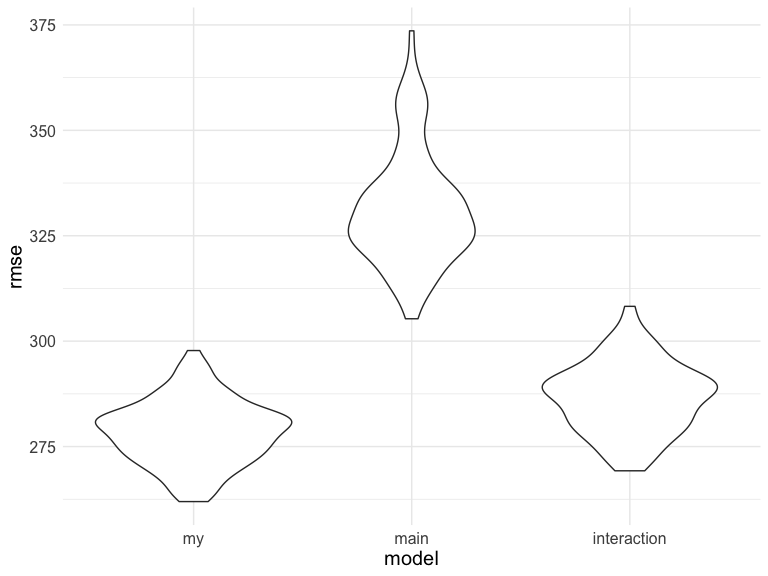
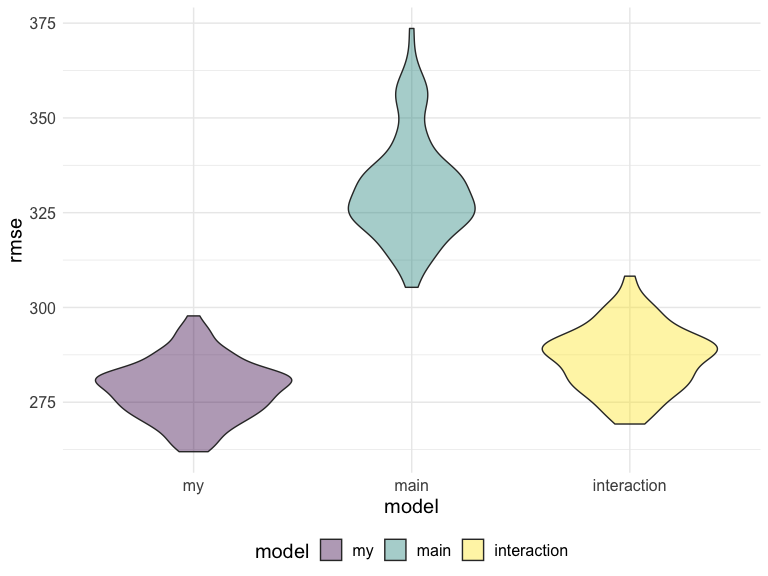
changes on kable

diff --git a/p8105_hw6_wx2233.md b/p8105_hw6_wx2233.md
@@ -190,15 +190,15 @@ summary(fit3)
 
 ``` r
 fit3 %>% 
-  broom::tidy()
+  broom::tidy() %>% 
+  knitr::kable()
 ```
 
-    ## # A tibble: 3 x 5
-    ##   term        estimate std.error statistic  p.value
-    ##   <chr>          <dbl>     <dbl>     <dbl>    <dbl>
-    ## 1 (Intercept)  -4348.      98.0      -44.4 0.      
-    ## 2 blength        129.       1.99      64.6 0.      
-    ## 3 gaweeks         27.0      1.72      15.7 2.36e-54
+| term        |     estimate | std.error |  statistic | p.value |
+| :---------- | -----------: | --------: | ---------: | ------: |
+| (Intercept) | \-4347.66707 | 97.958360 | \-44.38281 |       0 |
+| blength     |    128.55569 |  1.989891 |   64.60439 |       0 |
+| gaweeks     |     27.04673 |  1.717930 |   15.74379 |       0 |
 
 One using head circumference, length, sex, and all interactions
 (including the three-way interaction) between these Make this comparison
@@ -237,20 +237,20 @@ summary(fit4)
 
 ``` r
 fit4 %>% 
-  broom::tidy()
+  broom::tidy() %>% 
+  knitr::kable()
 ```
 
-    ## # A tibble: 8 x 5
-    ##   term                      estimate std.error statistic    p.value
-    ##   <chr>                        <dbl>     <dbl>     <dbl>      <dbl>
-    ## 1 (Intercept)                -802.    1102.       -0.728 0.467     
-    ## 2 babysexmale               -6375.    1678.       -3.80  0.000147  
-    ## 3 bhead                       -16.6     34.1      -0.487 0.626     
-    ## 4 blength                     -21.6     23.4      -0.926 0.354     
-    ## 5 babysexmale:bhead           198.      51.1       3.88  0.000105  
-    ## 6 babysexmale:blength         124.      35.1       3.52  0.000429  
-    ## 7 bhead:blength                 3.32     0.713     4.67  0.00000317
-    ## 8 babysexmale:bhead:blength    -3.88     1.06     -3.67  0.000245
+| term                      |      estimate |    std.error |   statistic |   p.value |
+| :------------------------ | ------------: | -----------: | ----------: | --------: |
+| (Intercept)               |  \-801.948671 | 1102.3077046 | \-0.7275180 | 0.4669480 |
+| babysexmale               | \-6374.868351 | 1677.7669213 | \-3.7996150 | 0.0001469 |
+| bhead                     |   \-16.597546 |   34.0916082 | \-0.4868514 | 0.6263883 |
+| blength                   |   \-21.645964 |   23.3720477 | \-0.9261475 | 0.3544209 |
+| babysexmale:bhead         |    198.393181 |   51.0916850 |   3.8830816 | 0.0001047 |
+| babysexmale:blength       |    123.772887 |   35.1185360 |   3.5244319 | 0.0004288 |
+| bhead:blength             |      3.324444 |    0.7125586 |   4.6655020 | 0.0000032 |
+| babysexmale:bhead:blength |    \-3.878053 |    1.0566296 | \-3.6702106 | 0.0002453 |
 
 ### Cross - Validation
 
@@ -279,7 +279,8 @@ pivot_longer(
     values_to = "rmse",
     names_prefix = "rmse_") %>% 
   mutate(model = fct_inorder(model)) %>% 
-  ggplot(aes(x = model, y = rmse)) + geom_violin()
+  ggplot(aes(x = model, y = rmse)) + 
+  geom_violin(aes(fill = model), alpha = .4)
 ```
 
 <img src="p8105_hw6_wx2233_files/figure-gfm/unnamed-chunk-7-1.png" width="90%" />
